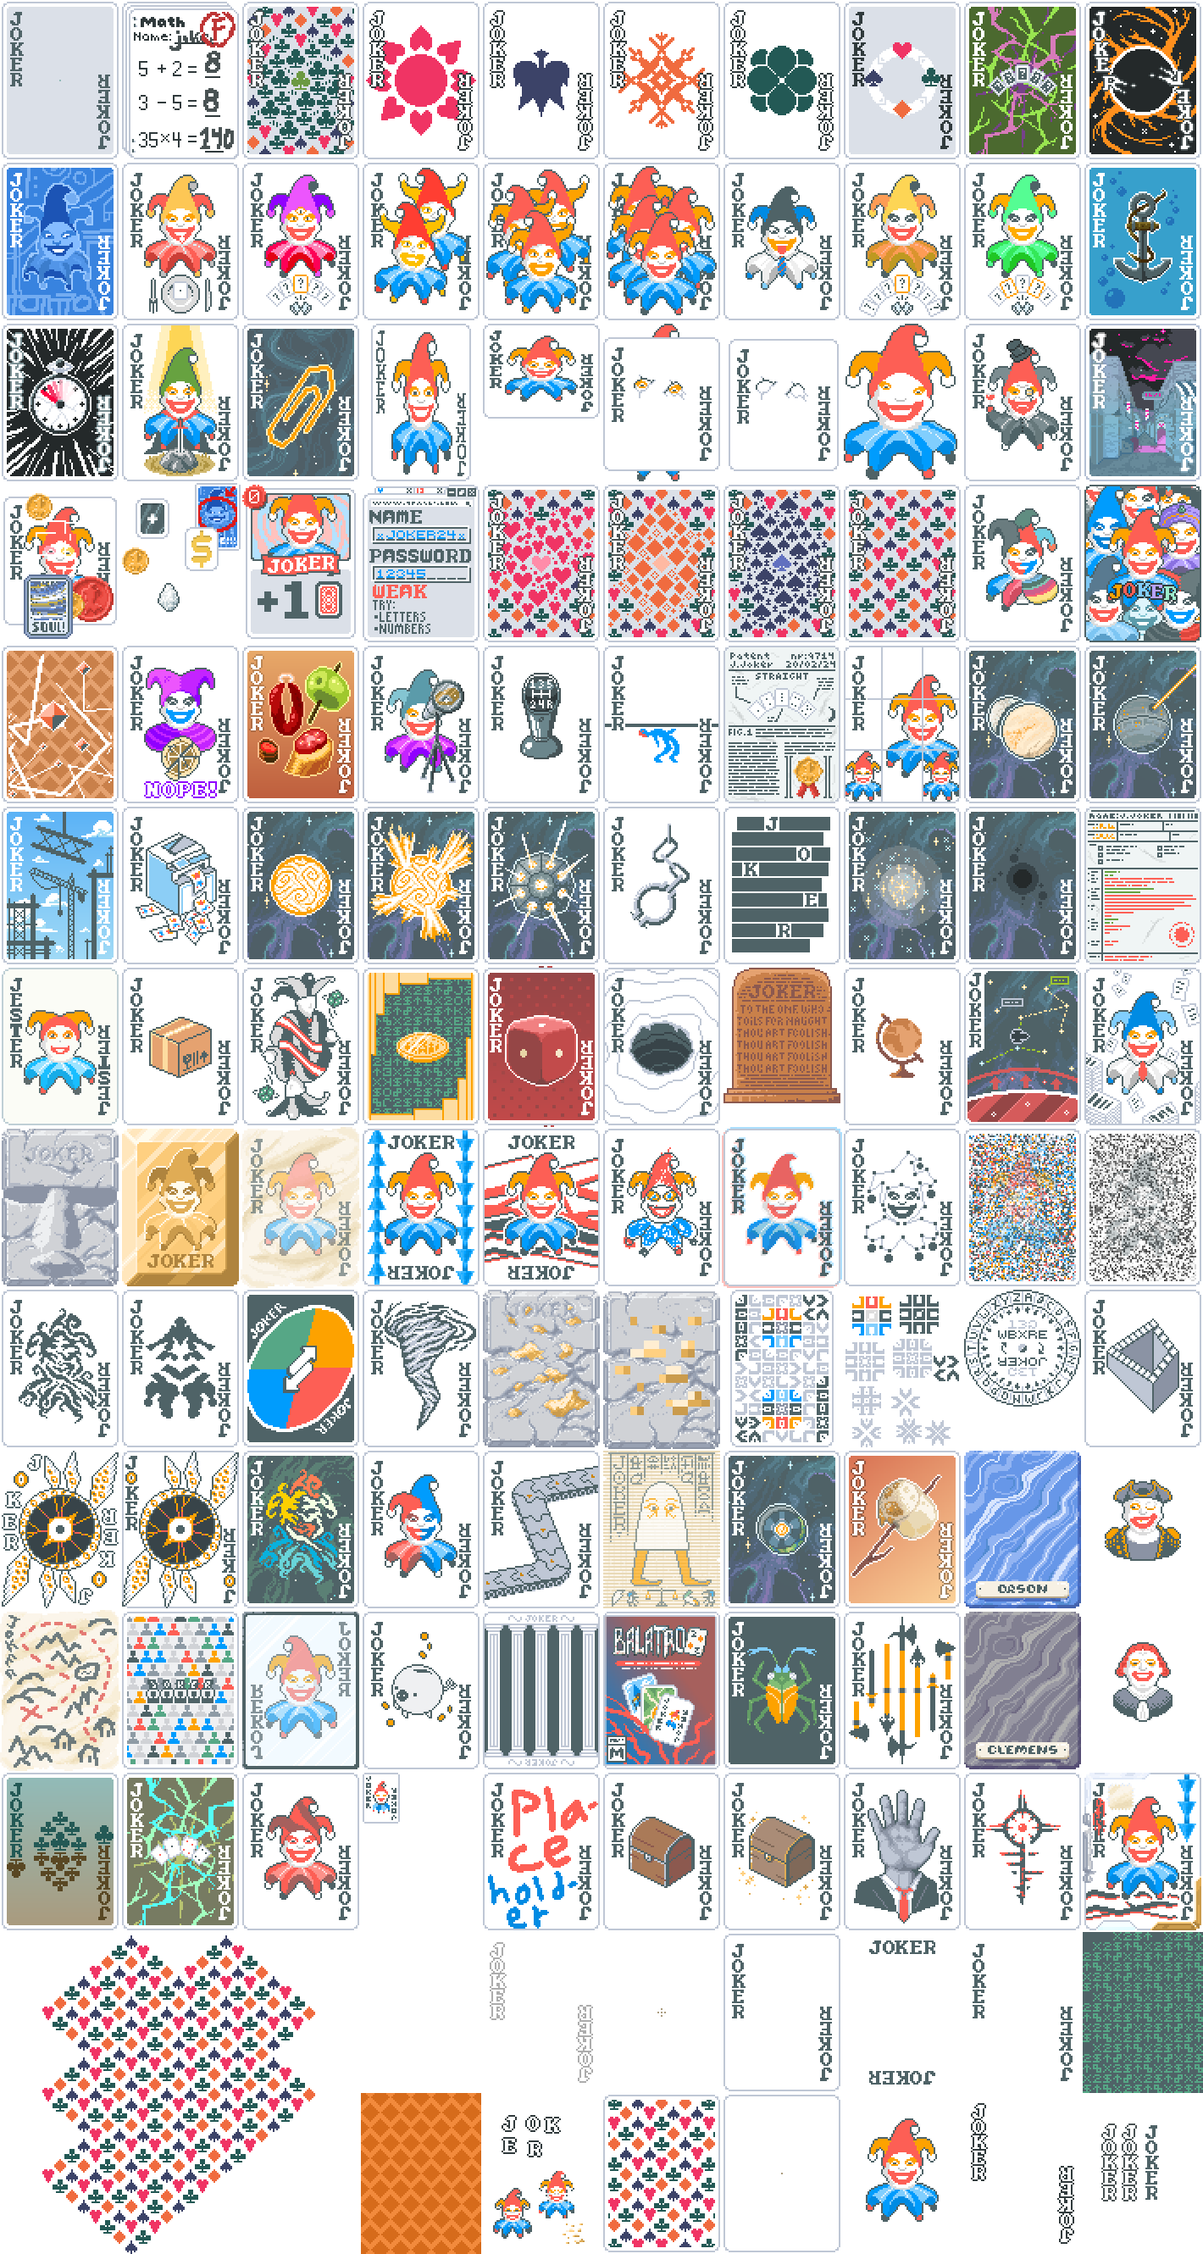
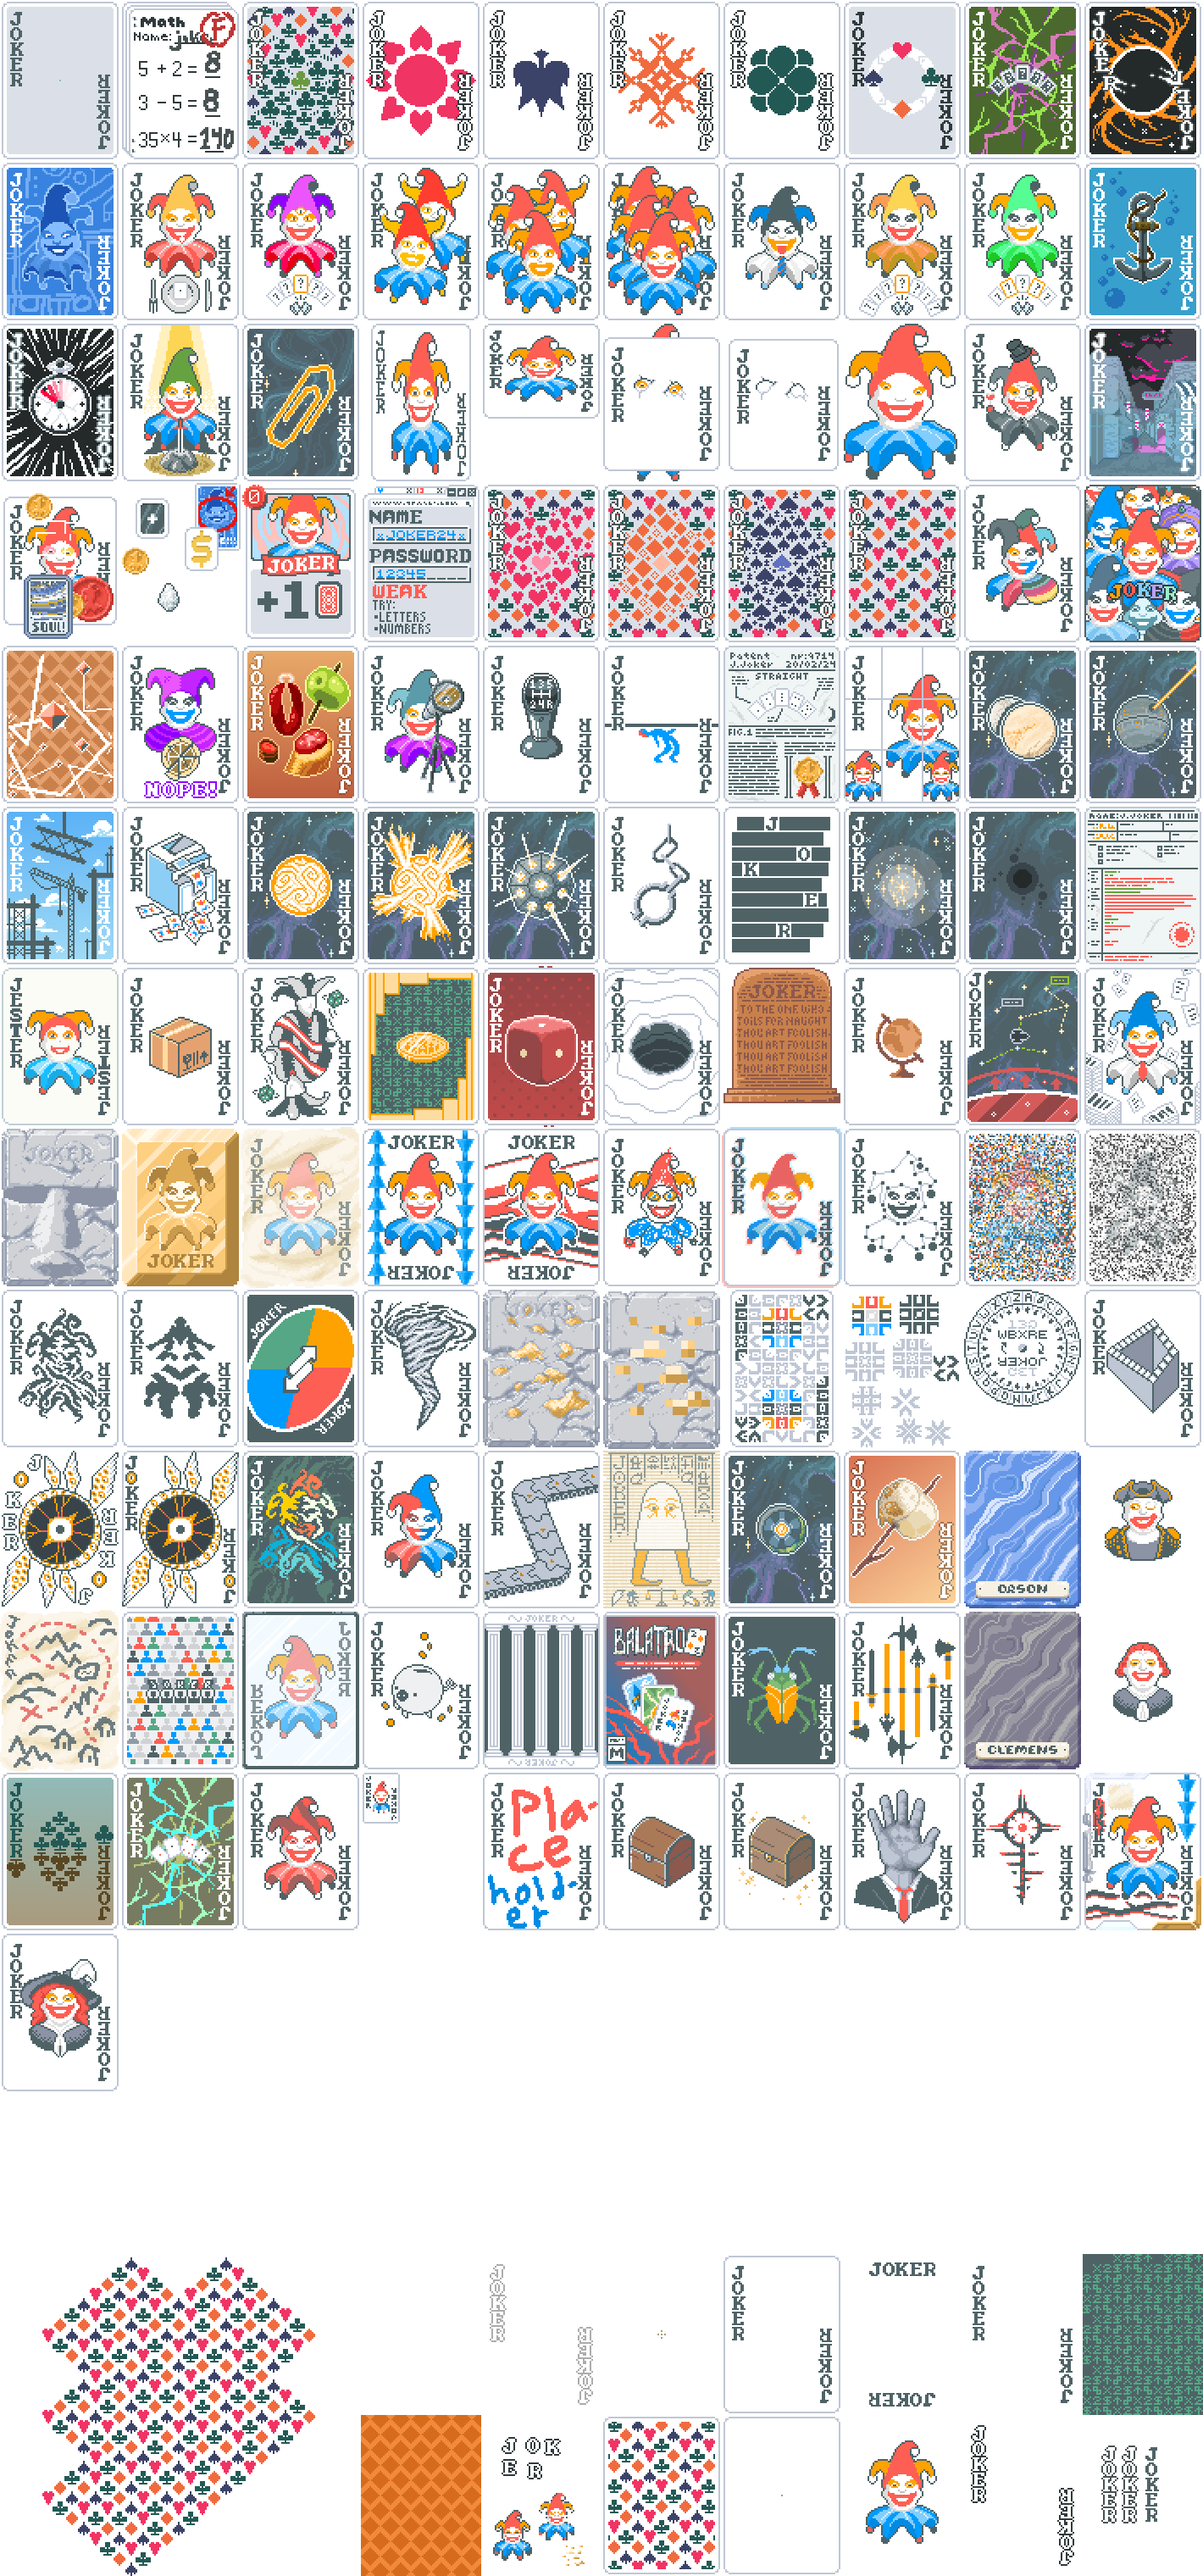
Add Socialite

diff --git a/web/addjokers.js b/web/addjokers.js
@@ -903,6 +903,14 @@ let jokers = [
     image_url: "img/j/enhanced_joker.png",
     rarity: "Common"
   },
+  {
+    name: "Socialite",
+    text: [
+        "Every played {C:attention}Face Card{} permanently gains {C:white,X:mult}X0.1{} Mult when scored",
+    ],
+    image_url: "img/j/socialite.png",
+    rarity: "Rare"
+  },
 
   // {
   //   name: "",
